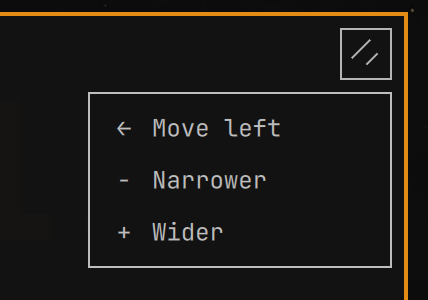
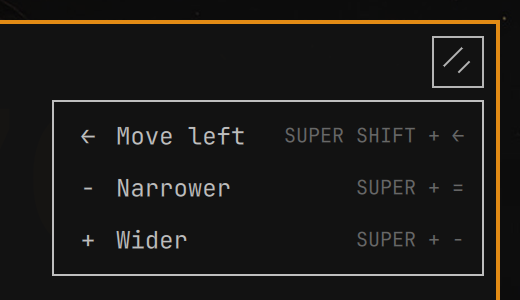
Show each row's hotkey in the pad
Readers learn the keyboard route by seeing it: every row now carries the
binding that does the same thing, read from Omarchy's keybinding cache so the
hints follow the user's own bindings, and refreshed whenever the pad opens.

🤖 Generated with Codebuff

diff --git a/WindowControls.qml b/WindowControls.qml
@@ -25,7 +25,7 @@ Item {
   readonly property int pollInterval: 300   // ms between geometry refreshes
   readonly property int autoCloseMs: 6000   // pad closes itself after this much idle
 
-  readonly property int popupWidth: 152
+  readonly property int popupWidth: 216
   readonly property int rowHeight: 24
   readonly property int rowGap: 2
   readonly property int popupPadding: 6
@@ -47,6 +47,10 @@ Item {
   // torn down on every geometry poll.
   property var rows: []
   property string moveKey: ""
+
+  // description → keybinding, read from Omarchy's own keybinding cache so each
+  // row can show the hotkey that does the same thing.
+  property var keyDescriptions: ({})
 
   readonly property int popupHeight: popupPadding * 2 + rowHeight * rows.length
     + rowGap * Math.max(0, rows.length - 1)
@@ -86,21 +90,9 @@ Item {
     var expression = ""
 
     if (kind === "wider" || kind === "narrower") {
-      var magnitude = kind === "wider" ? root.step : -root.step
-      var dx = 0
-      var dy = 0
-      if (root.winFloating) {
-        dx = magnitude
-      } else if (root.winW < root.screenWidth - 4) {
-        // Side-by-side tiles share a vertical edge, so the delta grows the
-        // window only when it moves that edge away from the screen centre.
-        dx = (root.winX + root.winW / 2) < root.screenWidth / 2 ? magnitude : -magnitude
-      } else {
-        // Stacked tiles share a horizontal edge instead.
-        dy = (root.winY + root.winH / 2) < root.screenHeight / 2 ? magnitude : -magnitude
-      }
-      expression = 'hl.dsp.window.resize({ window = "' + target + '", x = ' + dx
-        + ', y = ' + dy + ', relative = true })'
+      var delta = root.resizeDelta(kind === "wider" ? root.step : -root.step)
+      expression = 'hl.dsp.window.resize({ window = "' + target + '", x = ' + delta.x
+        + ', y = ' + delta.y + ', relative = true })'
     } else if (root.winFloating) {
       var nudgeX = kind === "left" ? -root.step : (kind === "right" ? root.step : 0)
       var nudgeY = kind === "up" ? -root.step : (kind === "down" ? root.step : 0)
@@ -121,7 +113,10 @@ Item {
   function togglePopup() {
     if (!root.hasWindow) return
     root.popupOpen = !root.popupOpen
-    if (root.popupOpen) autoCloseTimer.restart()
+    if (root.popupOpen) {
+      root.refreshHotkeys()
+      autoCloseTimer.restart()
+    }
   }
 
   function closePopup() {
@@ -252,6 +247,70 @@ Item {
     return out
   }
 
+  // Which way the shared edge has to move for this window to grow. Used both by
+  // the action itself and by the hotkey hint, so they can never disagree.
+  function resizeDelta(magnitude) {
+    var delta = { x: 0, y: 0 }
+    if (root.winFloating) {
+      delta.x = magnitude
+    } else if (root.winW < root.screenWidth - 4) {
+      // Side-by-side tiles share a vertical edge, so the delta grows the window
+      // only when it moves that edge away from the screen centre.
+      delta.x = (root.winX + root.winW / 2) < root.screenWidth / 2 ? magnitude : -magnitude
+    } else {
+      // Stacked tiles share a horizontal edge instead.
+      delta.y = (root.winY + root.winH / 2) < root.screenHeight / 2 ? magnitude : -magnitude
+    }
+    return delta
+  }
+
+  // Omarchy's cache stores lines shaped `SUPER SHIFT + LEFT<spaces> → Description	kind	dispatch`.
+  function applyKeybindings(raw) {
+    var map = ({})
+    var lines = String(raw || "").split("\n")
+    for (var i = 0; i < lines.length; i++) {
+      var line = lines[i]
+      if (!line) continue
+      var arrow = line.indexOf("→")
+      if (arrow < 0) continue
+      var keys = root.prettyKeys(line.slice(0, arrow).trim())
+      var rest = line.slice(arrow + 1)
+      var tab = rest.indexOf("\t")
+      var description = (tab < 0 ? rest : rest.slice(0, tab)).trim()
+      if (description !== "" && keys !== "") map[description] = keys
+    }
+    root.keyDescriptions = map
+  }
+
+  function prettyKeys(keys) {
+    return String(keys || "")
+      .replace(/\bMINUS\b/, "−")
+      .replace(/\bEQUAL\b/, "=")
+      .replace(/\bLEFT\b/, "←")
+      .replace(/\bRIGHT\b/, "→")
+      .replace(/\bUP\b/, "↑")
+      .replace(/\bDOWN\b/, "↓")
+  }
+
+  function hotkeyFor(kind) {
+    var descriptions = root.keyDescriptions || ({})
+    if (kind === "up") return descriptions["Swap window up"] || ""
+    if (kind === "down") return descriptions["Swap window down"] || ""
+    if (kind === "left") return descriptions["Swap window to the left"] || ""
+    if (kind === "right") return descriptions["Swap window to the right"] || ""
+    if (!root.hasWindow) return ""
+    var delta = root.resizeDelta(kind === "wider" ? root.step : -root.step)
+    if (delta.y < 0) return descriptions["Shrink window up"] || ""
+    if (delta.y > 0) return descriptions["Expand window down"] || ""
+    if (delta.x < 0) return descriptions["Expand window left"] || ""
+    if (delta.x > 0) return descriptions["Shrink window left"] || ""
+    return ""
+  }
+
+  function refreshHotkeys() {
+    if (!keybindingsProc.running) keybindingsProc.running = true
+  }
+
   function applyRows(moves, floating) {
     var key = floating ? "floating" : ["left", "right", "up", "down"].map(function(kind) {
       return moves[kind] === true ? kind.charAt(0) : "-"
@@ -275,6 +334,26 @@ Item {
     interval: root.autoCloseMs
     onTriggered: root.closePopup()
   }
+
+  // Omarchy resolves the keys for `code:` and Lua binds into a cache file (it is
+  // what SUPER+K reads); rebuild it once if this machine has never opened the
+  // keybindings menu, then read it.
+  Process {
+    id: keybindingsProc
+    running: false
+    command: ["sh", "-c",
+      "dir=\"$HOME/.cache/omarchy\"; "
+      + "f=$(ls -t \"$dir\"/keybindings-*.records 2>/dev/null | head -n1); "
+      + "if [ -z \"$f\" ]; then omarchy menu keybindings --print >/dev/null 2>&1; "
+      + "f=$(ls -t \"$dir\"/keybindings-*.records 2>/dev/null | head -n1); fi; "
+      + "[ -n \"$f\" ] && cat \"$f\""]
+    stdout: StdioCollector {
+      waitForEnd: true
+      onStreamFinished: root.applyKeybindings(text)
+    }
+  }
+
+  Component.onCompleted: root.refreshHotkeys()
 
   Process {
     id: queryProc
@@ -313,6 +392,7 @@ Item {
         height: root.winH,
         floating: root.winFloating,
         rows: root.rows.map(function(row) { return row.kind }),
+        hints: root.rows.map(function(row) { return root.hotkeyFor(row.kind) }),
         screen: root.screenName,
         buttonX: root.buttonX,
         buttonY: root.buttonY,
@@ -468,14 +548,27 @@ Item {
               Text {
                 anchors.left: parent.left
                 anchors.leftMargin: 26
-                anchors.right: parent.right
-                anchors.rightMargin: 4
+                anchors.right: hintText.left
+                anchors.rightMargin: 8
                 anchors.verticalCenter: parent.verticalCenter
                 text: row.modelData.label
                 elide: Text.ElideRight
                 font.family: Style.font.menuFamily
                 font.pixelSize: Style.font.body
                 color: rowArea.containsMouse ? Commons.Color.menu.selectedText : Commons.Color.menu.text
+              }
+
+              // The hotkey that does the same thing, so the pad teaches the keys.
+              Text {
+                id: hintText
+                anchors.right: parent.right
+                anchors.rightMargin: 4
+                anchors.verticalCenter: parent.verticalCenter
+                text: root.hotkeyFor(row.modelData.kind)
+                font.family: Style.font.menuFamily
+                font.pixelSize: Style.font.caption
+                color: rowArea.containsMouse ? Commons.Color.menu.selectedText : Commons.Color.menu.text
+                opacity: rowArea.containsMouse ? 0.85 : 0.5
               }
 
               MouseArea {

diff --git a/README.md b/README.md
@@ -8,13 +8,21 @@ The grip, idle — top-right corner of the focused window:
 
 ![The grip in the corner of the focused window](docs/grip.png)
 
-The pad, open. This window is the right-hand tile, so it has no `Move right`:
+The pad, open. This window is the right-hand tile, so it has no `Move right`,
+and each row carries the hotkey that does the same thing:
 
-![The open pad offering Move left, Narrower and Wider](docs/pad.png)
+![The open pad offering Move left, Narrower and Wider, each with its hotkey on the right](docs/pad.png)
 
 Only the moves that can actually happen are shown: a window already on the
 right edge of the layout gets no `Move right`, a full-width tile gets neither
 left nor right, and so on. The pad shrinks to fit whatever is left.
+
+Each row also shows the hotkey that does the same thing (`SUPER SHIFT + ←`,
+`SUPER + −`, …), so you learn the keyboard route as you click. The hints are
+read from Omarchy's own keybinding cache — the one `SUPER+K` builds — which
+means they follow your bindings rather than a hardcoded list. They are
+refreshed every time the pad opens, and a row simply shows no hint when no
+binding matches it.
 
 ## Behaviour
 
